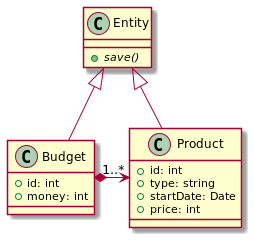
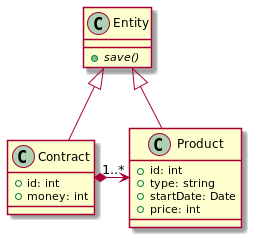
Rename Budget => Contract

Changed region(s): [[0.0276, 0.5833, 0.3583, 0.7]]

diff --git a/src/Domain layer logic/Revenue recognition/Table module/RecognitionService.test.ts b/src/Domain layer logic/Revenue recognition/Table module/RecognitionService.test.ts
@@ -1,8 +1,8 @@
-import Finance from "./Finance";
+import RecognitionService from "./RecognitionService";
 import { ProductType } from "../Enums/ProductType";
 import { db, initDb } from "../../../../database/db";
-import { createBudget, createProduct, removeBudgets, removeProducts } from "../Utils/database";
-import BudgetEntity from "./Entities/BudgetEntity";
+import { createContract, createProduct, getContractMoney, removeProducts } from "../Utils/database";
+import ContractEntity from "./Entities/ContractEntity";
 import { handlePromiseError } from "../Utils/utils";
 import { updateRevenueSets } from "../Tests data/updateRevenueSets";
 
@@ -12,19 +12,19 @@ const TYPE_SHORT = {
   [ProductType.SPREADSHEET]: 'SS',
 };
 
-const getBudgetById = (id: number): Promise<BudgetEntity> => {
-  return new Promise<BudgetEntity>(((resolve, reject) => {
+const getContractById = (id: number): Promise<ContractEntity> => {
+  return new Promise<ContractEntity>(((resolve, reject) => {
     db.get(
-      'SELECT id, money FROM budgets WHERE id = ?',
+      'SELECT id, money FROM contracts WHERE id = ?',
       [id],
       (err, row) => {
         if (!err && !row) {
-          err = new Error(`There is not Budget with ID: ${id}`);
+          err = new Error(`There is not Contract with ID: ${id}`);
         }
 
         handlePromiseError(reject, err);
         resolve(
-          new BudgetEntity()
+          new ContractEntity()
             .setId(row['id'])
             .setMoney(row['money'])
         )
@@ -33,15 +33,14 @@ const getBudgetById = (id: number): Promise<BudgetEntity> => {
   }));
 }
 
-describe('Finance', () => {
-  const finance = new Finance();
-  let budget: BudgetEntity;
+describe('RecognitionService by Table module', () => {
+  const finance = new RecognitionService();
+  let contract: ContractEntity;
 
   beforeAll(async () => {
     initDb();
-    await removeBudgets();
-    const budgetId = await createBudget();
-    budget = await getBudgetById(budgetId);
+    const contractId = await createContract();
+    contract = await getContractById(contractId);
   });
 
   beforeEach(async () => {
@@ -60,15 +59,16 @@ describe('Finance', () => {
           await Promise.all(
             products.map(
               async productData => await createProduct({
-                budgetId: budget.getId(),
+                contractId: contract.getId(),
                 ...productData
               })
             )
           );
 
-          await finance.updateRevenue(budget)
+          await finance.updateRevenue(contract)
 
-          expect(budget.getMoney()).toEqual(expectedMoney);
+          expect(contract.getMoney()).toEqual(expectedMoney);
+          expect(await getContractMoney(contract.getId())).toEqual(expectedMoney);
         });
       })
   });

diff --git a/src/Domain layer logic/Revenue recognition/Transation script/RecognitionService.ts b/src/Domain layer logic/Revenue recognition/Transation script/RecognitionService.ts
@@ -2,19 +2,27 @@ import { db } from "../../../../database/db";
 import { ProductType } from "../Enums/ProductType";
 import { getPassedDays, handlePromiseError } from "../Utils/utils";
 
-export default class Finance {
+export default class RecognitionService {
   /** Business logic methods */
 
-  /** Calculate and store total revenue of all products connected to the budget */
-  public updateRevenue(budgetId: number): Promise<boolean> {
-    return this.calculateTotalRecognition(budgetId)
-      .then(totalRecognition => this.storeBudget(budgetId, totalRecognition));
+  /**
+   * Calculate and store total revenue of all products connected to the contract/
+   * @param contractId
+   * @return Promise Current revenue
+   */
+  public updateRevenue(contractId: number): Promise<number> {
+    return this
+      .calculateTotalRecognition(contractId)
+      .then(totalRecognition =>
+        this.storeContract(contractId, totalRecognition)
+          .then(() => totalRecognition)
+      );
   }
 
   /** Calculate summary recognition of all products */
-  private calculateTotalRecognition(budgetId: number): Promise<number> {
+  private calculateTotalRecognition(contractId: number): Promise<number> {
     return this
-      .fetchProducts(budgetId) // Fetch all products from DB
+      .fetchProducts(contractId) // Fetch all products from DB
       .then(
         products => products.reduce( // Sum available money of each product
           (sum, product) => sum + this.calculateProductRecognition( // Define available money of product
@@ -61,11 +69,11 @@ export default class Finance {
 
   /** DB methods */
 
-  /** Get all budget products */
-  private fetchProducts(budgetId: number): Promise<[][]> {
+  /** Get all contract products */
+  private fetchProducts(contractId: number): Promise<[][]> {
     return new Promise((resolve, reject) => db.all(
-      "SELECT id, type, start_date, price FROM products where budget_id = ?",
-      [budgetId],
+      "SELECT id, type, start_date, price FROM products where contract_id = ?",
+      [contractId],
       (err, rows: [][]) => {
         handlePromiseError(reject, err);
         resolve(rows);
@@ -74,11 +82,11 @@ export default class Finance {
   }
 
   /** Save current recognition */
-  private storeBudget(budgetId: number, money: number): Promise<boolean> {
+  private storeContract(contractId: number, money: number): Promise<boolean> {
     return new Promise(
       (resolve, reject) => db.run(
-        'UPDATE budgets SET money = ? WHERE id = ?',
-        [money, budgetId],
+        'UPDATE contracts SET money = ? WHERE id = ?',
+        [money, contractId],
         function(err) {
           handlePromiseError(reject, err);
           resolve(this.changes > 0);

diff --git a/src/Domain layer logic/Revenue recognition/Transation script/RecognitionService.test.ts b/src/Domain layer logic/Revenue recognition/Transation script/RecognitionService.test.ts
@@ -1,7 +1,7 @@
-import Finance from "./Finance";
+import RecognitionService from "./RecognitionService";
 import { ProductType } from "../Enums/ProductType";
 import { initDb } from "../../../../database/db";
-import { createBudget, createProduct, getBudgetMoney, removeBudgets, removeProducts } from "../Utils/database";
+import { createContract, createProduct, getContractMoney, removeProducts } from "../Utils/database";
 import { updateRevenueSets } from "../Tests data/updateRevenueSets";
 
 const TYPE_SHORT = {
@@ -10,14 +10,13 @@ const TYPE_SHORT = {
   [ProductType.SPREADSHEET]: 'SS',
 };
 
-describe('Finance', () => {
-  const finance = new Finance();
-  let budgetId: number | null = null;
+describe('RecognitionService by Transaction script', () => {
+  const finance = new RecognitionService();
+  let contractId: number | null = null;
 
   beforeAll(async () => {
     initDb();
-    await removeBudgets();
-    budgetId = await createBudget();
+    contractId = await createContract();
   });
 
   beforeEach(async () => {
@@ -35,13 +34,14 @@ describe('Finance', () => {
         test(title, async () => {
           await Promise.all(
             products.map(
-              async productData => await createProduct({budgetId, ...productData})
+              async productData => await createProduct({contractId, ...productData})
             )
           );
 
-          await finance.updateRevenue(budgetId)
+          const revenue = await finance.updateRevenue(contractId)
 
-          expect(await getBudgetMoney(budgetId)).toEqual(expectedMoney);
+          expect(revenue).toEqual(expectedMoney);
+          expect(await getContractMoney(contractId)).toEqual(expectedMoney);
         });
       })
   });

diff --git a/src/Domain layer logic/Revenue recognition/Utils/database.ts b/src/Domain layer logic/Revenue recognition/Utils/database.ts
@@ -1,19 +1,9 @@
 import { db } from "../../../../database/db";
 import { dateToDatabase, handlePromiseError } from "./utils";
 
-export const removeBudgets = (): Promise<null> => new Promise(
+export const createContract = () => new Promise<number>(
   (resolve, reject) => db.run(
-    'DELETE FROM budgets WHERE TRUE',
-    (err) => {
-      handlePromiseError(reject, err);
-      resolve(null);
-    }
-  )
-);
-
-export const createBudget = () => new Promise<number>(
-  (resolve, reject) => db.run(
-    `INSERT INTO budgets(money)
+    `INSERT INTO contracts(money)
      VALUES (0)`,
     function(err) {
       handlePromiseError(reject, err);
@@ -32,12 +22,12 @@ export const removeProducts = (): Promise<null> => new Promise(
   )
 );
 
-export const createProduct = ({budgetId, type, day, price}) => new Promise<number>(
+export const createProduct = ({contractId, type, day, price}) => new Promise<number>(
   (resolve, reject) => db.run(
-    `INSERT INTO products(budget_id, type, start_date, price)
+    `INSERT INTO products(contract_id, type, start_date, price)
      VALUES (?, ?, ?, ?)`,
     [
-      budgetId,
+      contractId,
       type,
       dateToDatabase(makeDate(day)),
       price,
@@ -49,9 +39,9 @@ export const createProduct = ({budgetId, type, day, price}) => new Promise<numbe
   )
 );
 
-export const getBudgetMoney = (id: number): Promise<number> => {
+export const getContractMoney = (id: number): Promise<number> => {
   return new Promise((resolve, reject) => db.get(
-    'SELECT money FROM budgets WHERE id = ?',
+    'SELECT money FROM contracts WHERE id = ?',
     [id],
     (err, row) => {
       handlePromiseError(reject, err);

diff --git a/src/Domain layer logic/Revenue recognition/Table module/Entities/ContractEntity.ts b/src/Domain layer logic/Revenue recognition/Table module/Entities/ContractEntity.ts
@@ -4,7 +4,7 @@ import { db } from "../../../../../database/db";
 import Entity from "./Entity";
 import { handlePromiseError } from "../../Utils/utils";
 
-export default class BudgetEntity extends IdMixin(Entity) {
+export default class ContractEntity extends IdMixin(Entity) {
   private money: number = 0;
 
   public save(): Promise<this> {
@@ -13,7 +13,7 @@ export default class BudgetEntity extends IdMixin(Entity) {
     return this.isNew()
       ? new Promise<this>(
         (resolve, reject) => db.run(
-          `INSERT INTO budgets(money)
+          `INSERT INTO contracts(money)
            VALUES (0)`,
           function(err) {
             handlePromiseError(reject, err);
@@ -24,7 +24,7 @@ export default class BudgetEntity extends IdMixin(Entity) {
       )
       : new Promise<this>(
         (resolve, reject) => db.run(
-          `UPDATE budgets
+          `UPDATE contracts
            SET money = ?
            WHERE id = ?`,
           [self.getMoney(), self.getId()],
@@ -43,7 +43,7 @@ export default class BudgetEntity extends IdMixin(Entity) {
         handlePromiseError(reject, err);
         resolve(
           rows.map(
-            row => new ProductEntity(parseInt(row['budget_id']), row['type'])
+            row => new ProductEntity(parseInt(row['contract_id']), row['type'])
               .setId(row['id'])
               .setStartDate(new Date(Date.parse(row['start_date'])))
               .setPrice(row['price'])

diff --git a/src/Domain layer logic/Revenue recognition/Table module/Entities/ProductEntity.ts b/src/Domain layer logic/Revenue recognition/Table module/Entities/ProductEntity.ts
@@ -5,12 +5,12 @@ import { db } from "../../../../../database/db";
 import { dateToDatabase, handlePromiseError } from "../../Utils/utils";
 
 export default class ProductEntity extends IdMixin(Entity) {
-  private readonly budgetId: number;
+  private readonly contractId: number;
   private readonly type: ProductType;
   private price: number = 0;
   private startDate: Date;
 
-  public constructor(budgetId: number, type: ProductType) {
+  public constructor(contractId: number, type: ProductType) {
     super();
 
     this.type = type;
@@ -23,10 +23,10 @@ export default class ProductEntity extends IdMixin(Entity) {
     return this.isNew()
       ? new Promise<this>(
         (resolve, reject) => db.run(
-          `INSERT INTO products(budget_id, type, start_date, price)
+          `INSERT INTO products(contract_id, type, start_date, price)
            VALUES (?, ?, ?, ?)`,
           [
-            this.budgetId,
+            this.contractId,
             this.type,
             dateToDatabase(this.startDate),
             this.price,
@@ -40,7 +40,7 @@ export default class ProductEntity extends IdMixin(Entity) {
       )
       : new Promise<this>(
         (resolve, reject) => db.run(
-          `UPDATE budgets
+          `UPDATE contracts
            SET money = ?
            WHERE id = ?`,
           [self.getMoney(), self.getId()],

diff --git a/src/Domain layer logic/Revenue recognition/Table module/RecognitionService.ts b/src/Domain layer logic/Revenue recognition/Table module/RecognitionService.ts
@@ -1,22 +1,22 @@
 import ProductEntity from "./Entities/ProductEntity";
 import { ProductType } from "../Enums/ProductType";
-import BudgetEntity from "./Entities/BudgetEntity";
+import ContractEntity from "./Entities/ContractEntity";
 import { getPassedDays } from "../Utils/utils";
 
-export default class Finance {
+export default class RecognitionService {
 
-  /** Calculate and store total revenue of all products connected to the budget */
-  public updateRevenue(budget: BudgetEntity): Promise<BudgetEntity> {
-    return this.calculateTotalRecognition(budget)
-      .then(totalRecognition => budget
+  /** Calculate and store total revenue of all products connected to the contract */
+  public updateRevenue(contract: ContractEntity): Promise<ContractEntity> {
+    return this.calculateTotalRecognition(contract)
+      .then(totalRecognition => contract
         .setMoney(totalRecognition)
         .save()
       );
   }
 
   /** Calculate summary recognition of all products */
-  private calculateTotalRecognition(budget: BudgetEntity): Promise<number> {
-    return budget
+  private calculateTotalRecognition(contract: ContractEntity): Promise<number> {
+    return contract
       .getProducts()
       .then(
         products => products.reduce( // Sum available money of each product
